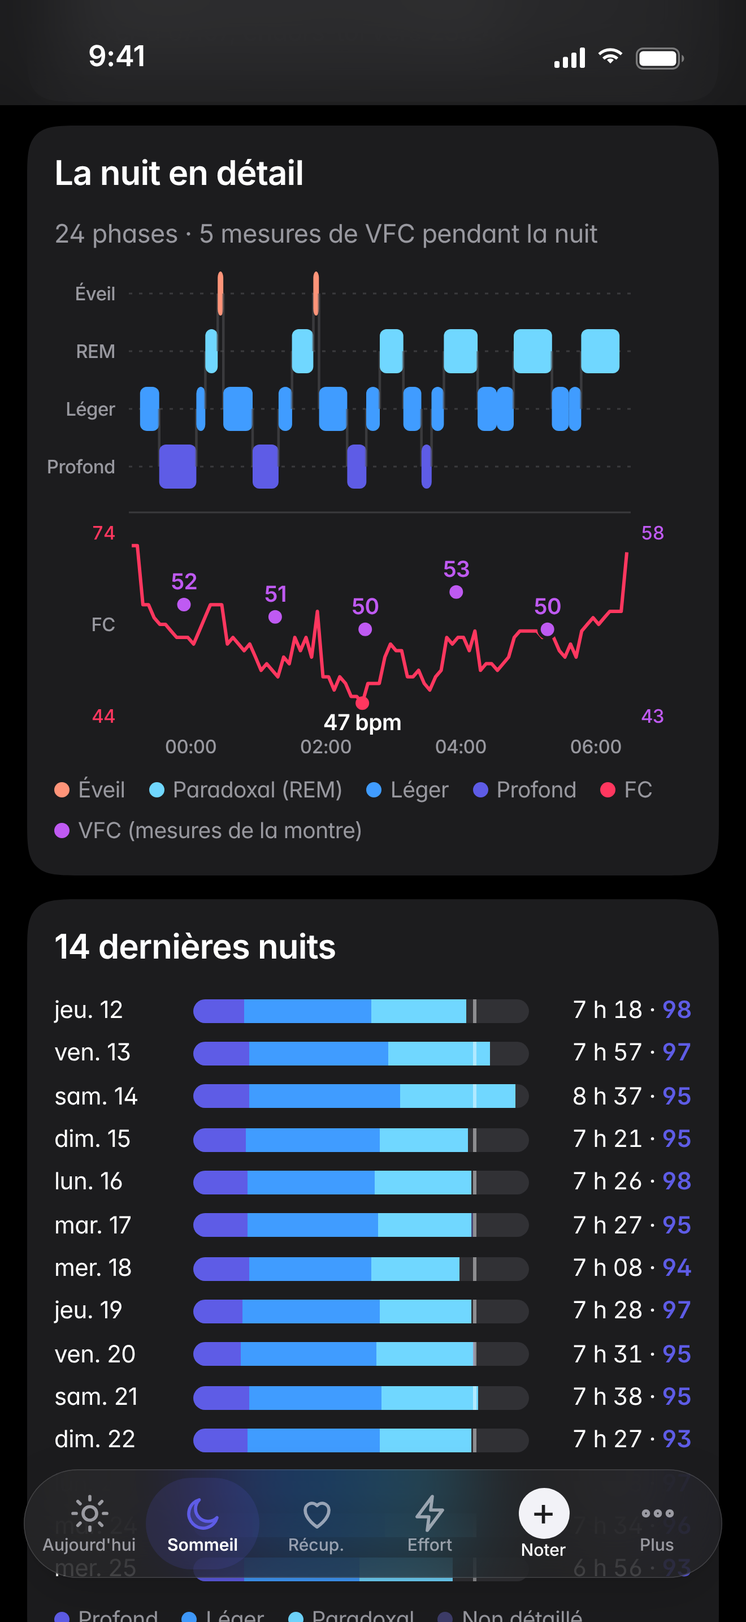
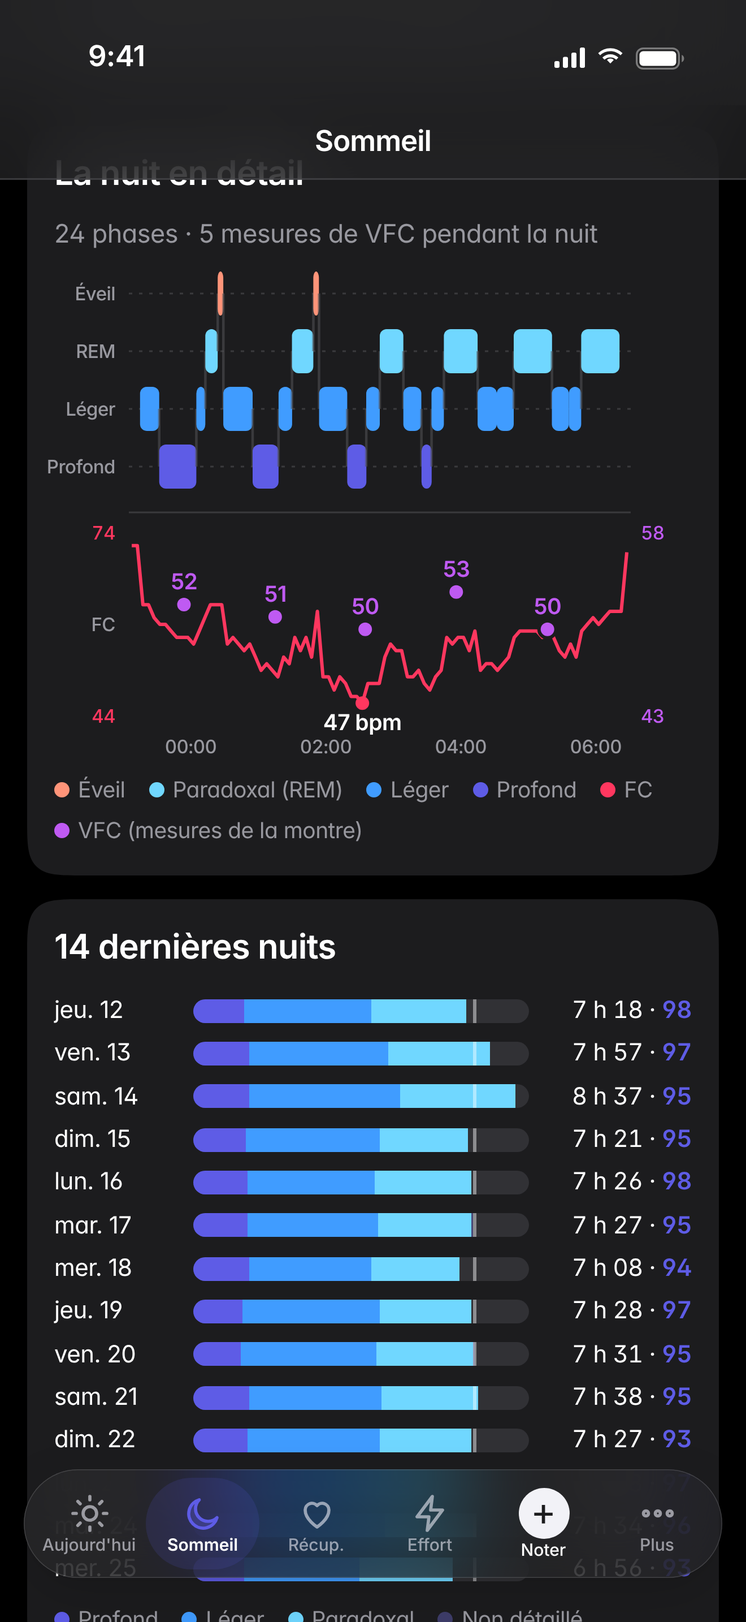
Grand titre qui se replie, titres Nutrition et Tendances, check-in en feuille, haptique
- téléphone : en défilant, le grand titre se replie en barre de titre compacte floutée (comme iOS)
- Nutrition et Tendances : grand titre et retour « ‹ Plus » sur téléphone
- check-in : carte résumé sur Aujourd'hui (mini-jauges, étiquettes, note) et saisie dans une
  feuille « Check-in du jour » ; Noter → Check-in l'ouvre directement
- retours haptiques dans l'appli iOS (changement d'onglet, choix, ajout d'eau, enregistrement)
  avec le module Capacitor Haptics
- captures App Store régénérées

Claude-Session: https://claude.ai/code/session_015H5AcnZF4Qe2vCaE56TQbC

Changed region(s): [[0.0, 0.0621, 1.0, 0.1241]]

diff --git a/src/main.js b/src/main.js
@@ -7,6 +7,8 @@ import {BASE_EX,SPORTS,MEALS,WT,MG,SCALES,MEAS,ZC,ZN,IC,DEF} from './constants.j
 import {readHealth} from './health-import.js';
 import {demoHealthXML,demoManual,DEMO_PROFILE} from './demo.js';
 import {hasHealthKit,authorizeHealth,readHealthKit,useHealthProvider} from './healthkit.js';
+import {Capacitor} from '@capacitor/core';
+import {Haptics,ImpactStyle,NotificationType} from '@capacitor/haptics';
 
 const S={set:clone(DEF),sessions:[],days:{},med:[],cur:null,health:{upd:'',d:{}},detail:{d:{}},day:today()};
 let mode='load',resumed=false,histN=15,sv,tt,startMode='mu',medFlt='Tout',psub='',sleepTrend='sl',sleepPer=30;
@@ -274,11 +276,15 @@ function actsHTML(d,T){T=T||dayTrain(d);const L=[];
  for(const s of T.sp){const w=T.att.find(x=>(WT[x.ty]||'')===s.type);L.push(`<div class="act" style="--c:var(--eff)"><div class="ic"><svg viewBox="0 0 24 24">${IC.run}</svg></div><div><div class="t">${esc(s.type)}</div><div class="m">${esc(s.min)} min${s.km?' · '+fx(s.km)+' km':''}${s.rpe?' · ressenti '+esc(s.rpe)+'/10':''}${w&&w.hr?' · '+w.hr+' bpm moy.':''}</div>${w?zbar(w.z)+zleg(w.z):''}</div><div class="e">${w&&w.tr?r0(100*(1-Math.exp(-w.tr/110))):''}<small>${w&&w.tr?'effort':''}</small></div></div>`)}
  for(const w of T.ap)L.push(`<div class="act" style="--c:${isStr(w)?'var(--trn)':'var(--eff)'}"><div class="ic"><svg viewBox="0 0 24 24">${isStr(w)?IC.lift:IC.run}</svg></div><div><div class="t">${esc(WT[w.ty]||w.ty)} <span class="mute small">· montre${has(w.st)?' · '+hm(w.st):''}</span></div><div class="m">${esc(w.min)} min${w.km?' · '+fx(w.km)+' km':''}${w.kcal?' · '+esc(w.kcal)+' kcal':''}${w.hr?' · '+esc(w.hr)+' bpm moy.':''}${w.mx?' · max '+esc(w.mx):''}</div>${zbar(w.z)}${zleg(w.z)}</div><div class="e">${w.tr?r0(100*(1-Math.exp(-w.tr/110))):''}<small>${w.tr?'effort':''}</small></div></div>`);
  return L.join('')}
-function renderCheckin(){const d=S.day,j=J(d);
- $('#checkin').innerHTML=`<div class="ph"><h2>Comment tu te sens ?</h2><span class="mute small">${j.mood||j.energy||j.stress||j.sore?'Enregistré':'20 secondes'}</span></div>
- <div class="ci">${SCALES.map(([k,l,lo,hi])=>`<div class="sc"><span>${l}</span><div class="seg">${[1,2,3,4,5].map(v=>`<button data-act="jset" data-k="${k}" data-v="${v}" class="${j[k]===v?'on':''}" aria-label="${l} ${v} sur 5">${v}</button>`).join('')}</div><small><span>${lo}</span><span>${hi}</span></small></div>`).join('')}</div>
- <h3>Étiquettes</h3><div class="chips">${S.set.tags.map(t=>`<button class="chip ${(j.tags||[]).includes(t)?'on':''}" data-act="jtag" data-t="${esc(t)}">${esc(t)}</button>`).join('')}</div>
- <h3>Note</h3><textarea id="jnote" rows="2" placeholder="Douleur, ressenti, événement…">${esc(j.note||'')}</textarea>`}
+const SCC={mood:'var(--mind)',energy:'var(--nut)',stress:'var(--bad)',sore:'var(--eff)'};
+function renderCheckin(){const d=S.day,j=J(d),done=!!(j.mood||j.energy||j.stress||j.sore||(j.tags||[]).length||j.note);
+ $('#checkin').innerHTML=`<div class="ph"><h2>Comment tu te sens ?</h2>${done?'<span class="mute small">Enregistré</span>':''}</div>`+(done?
+  `<div class="cisum">${SCALES.filter(([k])=>j[k]).map(([k,l])=>`<div class="cis"><span>${l}</span><i style="--c:${SCC[k]}">${[1,2,3,4,5].map(v=>`<b class="${v<=j[k]?'on':''}"></b>`).join('')}</i><em>${j[k]}/5</em></div>`).join('')}</div>${(j.tags||[]).length?`<div class="chips cit">${j.tags.map(t=>`<span class="chip on">${esc(t)}</span>`).join('')}</div>`:''}${j.note?`<p class="cinote">${esc(j.note)}</p>`:''}<div class="row"><button type="button" class="btn small" data-act="ciopen">Modifier</button></div>`
+  :`<p class="mute" style="margin:0 0 14px">Humeur, énergie, stress et courbatures en 20 secondes : le carnet les croise ensuite avec ton sommeil et ta récupération.</p><button type="button" class="btn pri" data-act="ciopen">Faire mon check-in</button>`);
+ if(document.activeElement&&document.activeElement.id==='jnote')return;
+ $('#cibody').innerHTML=`<div class="panel"><div class="ci">${SCALES.map(([k,l,lo,hi])=>`<div class="sc"><span>${l}</span><div class="seg">${[1,2,3,4,5].map(v=>`<button data-act="jset" data-k="${k}" data-v="${v}" class="${j[k]===v?'on':''}" aria-label="${l} ${v} sur 5">${v}</button>`).join('')}</div><small><span>${lo}</span><span>${hi}</span></small></div>`).join('')}</div>
+ </div><h3 class="ms-sec">Étiquettes</h3><div class="panel"><div class="chips">${S.set.tags.map(t=>`<button class="chip ${(j.tags||[]).includes(t)?'on':''}" data-act="jtag" data-t="${esc(t)}">${esc(t)}</button>`).join('')}</div></div>
+ <h3 class="ms-sec">Note</h3><div class="panel"><textarea id="jnote" rows="3" placeholder="Douleur, ressenti, événement…">${esc(j.note||'')}</textarea></div>`}
 function setJ(p){const d=S.day,o=getDay(d);o.j={...(o.j||{}),...p};put.day(d)}
 
 /* ---------- sommeil ---------- */
@@ -375,7 +381,7 @@ function renderStart(){const seen=new Set(),tpl=[];
  <button class="btn pri">Enregistrer</button></form>`)+`</div>`;
  const f=$('#spf');if(f)f.addEventListener('submit',ev=>{ev.preventDefault();const m=num($('#spm').value);if(!(m>0))return $('#spm').focus();
   const o={id:nid(),kind:'sport',type:$('#spt').value,date:$('#spd').value||today(),min:Math.round(m),rpe:num($('#spr').value)||'',km:num($('#spk').value)||'',note:$('#spn').value.trim(),t:Date.now()};
-  upsert(o);put.sess(o);renderStart();closeSheet();renderEffort();toast(o.type+' enregistré')})
+  upsert(o);put.sess(o);renderStart();closeSheet();renderEffort();buzz('ok');toast(o.type+' enregistré')})
  if(msKind==='seance')msBar()}
 function exHTML(e,i){return `<article class="ex" data-i="${i}"><div class="exh"><input class="exn" data-f="n" value="${esc(e.n)}" list="exlist" placeholder="Nom de l'exercice" aria-label="Exercice ${i+1}"><button class="x" data-act="delEx" aria-label="Supprimer l'exercice">×</button></div>
  <p class="hint" id="h${i}"></p>
@@ -402,7 +408,7 @@ function finish(){const c=S.cur;clearTimeout(sv);
  if(!ex.length){toast('Rien à enregistrer : note au moins une série avec ses reps.');return}
  const el=Math.round((Date.now()-(c.t||Date.now()))/6e4),dur=c.dur||(c.date===today()&&el>=10&&el<=240?el:'');
  const o={id:c.id,name:(c.name||'').trim()||'Séance',date:c.date||today(),ex,t:c.t||Date.now(),dur,rpe:num(c.rpe)||''};
- upsert(o);put.sess(o);S.cur=null;stopTimer();renderEditor();closeSheet();renderSoft();
+ upsert(o);put.sess(o);S.cur=null;stopTimer();renderEditor();closeSheet();renderSoft();buzz('ok');
  const prs=ex.filter(e=>{const b=bestE1(e.n,o.id);return b&&Math.max(...e.sets.map(x=>e1(x.w,x.r)))>b}).map(e=>e.n);
  toast('Séance enregistrée'+(dur?` (${dur} min)`:'')+(prs.length?` · record sur ${prs.join(', ')}`:''))}
 function discard(){const c=S.cur;clearTimeout(sv);S.cur=null;stopTimer();S.sessions=S.sessions.filter(s=>s.id!==c.id);put.delSess(c.id);renderEditor();closeSheet();renderSoft();
@@ -549,11 +555,11 @@ function quick(q){$('#sheet').hidden=true;setTimeout(()=>document.documentElemen
  else if(q==='food'){S.day=today();openFood(mealNow())}
  else if(q==='bw'){S.day=today();go('nutrition',()=>{$('#bw').scrollIntoView({behavior:'smooth',block:'center'});$('#bw').focus({preventScroll:true})})}
  else if(q==='water'){const o=getDay(today());o.w=num(o.w)+250;put.day(today());renderView(cur());toast(`Eau : ${fx(o.w/1000)} L aujourd'hui`)}
- else if(q==='ci'){S.day=today();go('aujourdhui',()=>$('#checkin').scrollIntoView({behavior:'smooth',block:'start'}))}
+ else if(q==='ci'){S.day=today();renderCheckin();openSheet('checkin')}
  else if(q==='med'){psub='dossier';go('plus',()=>{renderPlus();$('#mti').focus({preventScroll:true})})}
  else if(q==='apple'){if(HKN&&S.health.src==='hk'){hkSync();return}psub='apple';go('plus',renderPlus)}}
 
-function renderPlus(){$('#hub').hidden=!!psub;$('#subbar').hidden=!psub;$('#subt').textContent=SUBT[psub]||'';$$('[data-sub]').forEach(x=>x.hidden=x.dataset.sub!==psub);
+function renderPlus(){setTimeout(syncNav,0);$('#hub').hidden=!!psub;$('#subbar').hidden=!psub;$('#subt').textContent=SUBT[psub]||'';$$('[data-sub]').forEach(x=>x.hidden=x.dataset.sub!==psub);
  const L=hLast();$('#hubapple').textContent=S.set.demo?"Données de démo pour l'instant":HKN?(S.health.src==='hk'?'Connecté · '+syncWhen():'Connecter Apple Santé'):L?`Données jusqu'au ${dShort(L)}${today()>addD(L,3)?' : pense à réimporter':''}`:'Importer tes données (pas encore fait)';
  if(psub==='dossier')renderMed();else if(psub)renderSettings()}
 function renderMed(){const t=today(),L=S.med.slice().sort((a,b)=>b.date.localeCompare(a.date)),types=['Tout','Rendez-vous','Vaccin','Analyse','Blessure','Note'];
@@ -595,7 +601,7 @@ function resumeOnce(){if(resumed)return;resumed=true;const o=S.sessions.filter(s
 const views=['aujourdhui','sommeil','recuperation','effort','nutrition','tendances','plus'];
 const cur=()=>{const h=location.hash.slice(1);return views.includes(h)?h:'aujourdhui'};
 function markMore(){if(!matchMedia('(max-width:800px)').matches)return;requestAnimationFrame(()=>$$('.view:not([hidden]) :is(.panel>p.mute.small,.mkr p):not(.open)').forEach(p=>p.classList.toggle('more',p.scrollHeight>p.clientHeight+2)))}
-function renderView(v){setTimeout(markMore,0);renderDayNav();$('#demobar').hidden=!S.set.demo;try{({aujourdhui:renderToday,sommeil:renderSleep,recuperation:renderRec,effort:renderEffort,nutrition:renderNutri,tendances:renderTrends,plus:renderPlus})[v]()}catch(e){console.error(e)}}
+function renderView(v){setTimeout(markMore,0);setTimeout(syncNav,0);renderDayNav();$('#demobar').hidden=!S.set.demo;try{({aujourdhui:renderToday,sommeil:renderSleep,recuperation:renderRec,effort:renderEffort,nutrition:renderNutri,tendances:renderTrends,plus:renderPlus})[v]()}catch(e){console.error(e)}}
 function renderSoft(){updateDatalist();
  if(!S.cur&&!$('#editor').contains(document.activeElement))renderStart();
  if(S.cur)S.cur.ex.forEach((e,i)=>updateHint(i));
@@ -615,10 +621,11 @@ document.addEventListener('click',ev=>{unlockAudio();if(matchMedia('(max-width:8
  switch(act){
  case'sheet':{const sh=$('#sheet');sh.hidden=!sh.hidden;setTimeout(()=>{document.documentElement.style.setProperty('--hh',$('.top').offsetHeight+'px')},0);return}
  case'qa':return quick(b.dataset.q);
- case'dpick':S.day=b.dataset.d;return renderView(cur());
+ case'dpick':buzz();S.day=b.dataset.d;return renderView(cur());
  case'msclose':return closeSheet();
+ case'ciopen':renderCheckin();return openSheet('checkin');
  case'metric':return openMetric(b.dataset.k);
- case'mper':metP=+b.dataset.n;return renderMetric();
+ case'mper':buzz();metP=+b.dataset.n;return renderMetric();
  case'msopen':if(!S.cur){startMode=b.dataset.m||'mu';renderStart()}return openSheet('seance');
  case'foodadd':return openFood(b.dataset.m);
  case'foodsave':return $('#ff').requestSubmit();
@@ -636,12 +643,12 @@ document.addEventListener('click',ev=>{unlockAudio();if(matchMedia('(max-width:8
  case'psub':psub=b.dataset.s;scrollTo(0,0);if(cur()!=='plus'){ev.preventDefault();location.hash='plus';return}return renderPlus();
  case'slt':sleepTrend=b.dataset.k;return renderSleep();
  case'slper':sleepPer=+b.dataset.n;return renderSleep();
- case'jset':{const k=b.dataset.k,v=+b.dataset.v;setJ({[k]:J(S.day)[k]===v?undefined:v});return renderCheckin()}
- case'jtag':{const t=b.dataset.t,tg=(J(S.day).tags||[]).slice(),x=tg.indexOf(t);if(x<0)tg.push(t);else tg.splice(x,1);setJ({tags:tg});return renderCheckin()}
- case'water':{const d=S.day,o=getDay(d);o.w=Math.max(0,num(o.w)+ +b.dataset.v);put.day(d);return renderView(cur())}
+ case'jset':buzz();{const k=b.dataset.k,v=+b.dataset.v;setJ({[k]:J(S.day)[k]===v?undefined:v});return renderCheckin()}
+ case'jtag':buzz();{const t=b.dataset.t,tg=(J(S.day).tags||[]).slice(),x=tg.indexOf(t);if(x<0)tg.push(t);else tg.splice(x,1);setJ({tags:tg});return renderCheckin()}
+ case'water':{buzz('light');const d=S.day,o=getDay(d);o.w=Math.max(0,num(o.w)+ +b.dataset.v);put.day(d);return renderView(cur())}
  case'sup':{const d=S.day,o=getDay(d),s=b.dataset.s,l=(o.sup||[]).slice(),x=l.indexOf(s);if(x<0)l.push(s);else l.splice(x,1);o.sup=l;put.day(d);return renderNutri()}
  case'copyY':{const d=S.day,y=dayIt(addD(d,-1));if(!y.length)return toast('Rien de noté la veille.');getDay(d).items.push(...clone(y));put.day(d);renderNutri();return toast(y.length+' aliments copiés depuis la veille')}
- case'smode':startMode=b.dataset.m;return renderStart();
+ case'smode':buzz();startMode=b.dataset.m;return renderStart();
  case'start':return startSession();
  case'tpl':return startSession(b.dataset.id);
  case'tstart':return startTimer();
@@ -670,7 +677,7 @@ document.addEventListener('click',ev=>{unlockAudio();if(matchMedia('(max-width:8
 document.addEventListener('change',ev=>{if(ev.target.id==='jnote')setJ({note:ev.target.value.trim()})});
 $('#ff').addEventListener('submit',ev=>{ev.preventDefault();const n=$('#fn').value.trim(),p=num($('#fp').value),g=num($('#fg').value),l=num($('#fl2').value),k=num($('#fk').value);if(!n&&!p&&!k&&!g&&!l)return $('#fn').focus();
  const f={n:n||'Aliment',p,g,l,k:k||Math.round(p*4+g*4+l*9)};addFood(f);if($('#fsave').checked&&!S.set.foods.some(x=>norm(x.n)===norm(f.n))){S.set.foods.push(f);put.set()}
- const m=$('#fm').value;$('#ff').reset();$('#fm').value=m;renderNutri();if(msKind==='food'){closeSheet();toast(f.n+' ajouté · '+m)}else $('#fn').focus()});
+ const m=$('#fm').value;$('#ff').reset();$('#fm').value=m;renderNutri();buzz('ok');if(msKind==='food'){closeSheet();toast(f.n+' ajouté · '+m)}else $('#fn').focus()});
 $('#mf').addEventListener('submit',ev=>{ev.preventDefault();const d=$('#mdate').value||today(),m={};for(const [k] of MEAS){const v=num($('#m-'+k).value);if(v>0)m[k]=v}if(!Object.keys(m).length)return $('#m-taille').focus();getDay(d).m=m;put.day(d);$('#mf').reset();$('#mdate').value=today();renderBody();toast('Mensurations enregistrées')});
 $('#medf').addEventListener('submit',ev=>{ev.preventDefault();const o={id:nid(),type:$('#mt').value,date:$('#md').value||today(),title:$('#mti').value.trim(),who:$('#mw').value.trim(),next:$('#mn').value,note:$('#mno').value.trim()};if(!o.title)return $('#mti').focus();S.med.push(o);put.med(o);$('#medf').reset();$('#md').value=today();renderMed();toast('Ajouté au dossier')});
 $('#supf').addEventListener('submit',ev=>{ev.preventDefault();const v=$('#supn').value.trim();if(v&&!S.set.sups.includes(v)){S.set.sups.push(v);put.set()}$('#supn').value='';renderSettings()});
@@ -696,7 +703,7 @@ $('#hfile').addEventListener('change',async ev=>{const f=ev.target.files[0];ev.t
   msg.dataset.keep='1';msg.textContent=`Analyse terminée : ${n} jours, ${ns} nuits (dont ${nv} avec VFC nocturne, ${nrm} recalculées en RMSSD) et ${w} entraînements. ${R.chk?` Contrôle de lecture des battements : le SDNN recalculé vaut ${Math.round(R.chk.med*100)} % de la valeur Apple (sur ${R.chk.n} mesures).`:''} FC max. déduite : ${R.hmax} bpm.`}
  catch(e){console.error(e);msg.textContent="Impossible de lire ce fichier. Choisis le export.zip d'Apple Santé, ou le fichier .xml qu'il contient (pas celui qui contient « cda »)."}
  finally{bar.hidden=true;delete msg.dataset.busy;renderSoft()}});
-addEventListener('hashchange',()=>{$('#sheet').hidden=true;route();scrollTo(0,0)});
+addEventListener('hashchange',()=>{$('#sheet').hidden=true;buzz();route();scrollTo(0,0)});
 document.addEventListener('keydown',e=>{if(e.metaKey||e.ctrlKey||e.altKey)return;const t=e.target;if(t.closest&&t.closest('input,textarea,select,[contenteditable]'))return;
  const tabs=['aujourdhui','sommeil','recuperation','effort','nutrition','tendances','plus'];
  if(e.key==='Escape'){$('#sheet').hidden=true;closeSheet();return}
@@ -772,6 +779,7 @@ const mealNow=()=>{const hr=new Date().getHours();return hr<11?'Petit-déjeuner'
 function msBar(){const t=$('#mstitle'),l=$('#msl'),r=$('#msr');
  if(msKind==='seance'){t.textContent=S.cur?'Séance en cours':'Nouvelle séance';l.textContent=S.cur?'Fermer':'Annuler';r.innerHTML=S.cur?'<button type="button" class="ms-btn ms-done" data-act="finish">Terminer</button>':''}
  else if(msKind==='food'){t.textContent=foodMeal;l.textContent='Annuler';r.innerHTML='<button type="button" class="ms-btn ms-done" data-act="foodsave">Ajouter</button>'}
+ else if(msKind==='checkin'){t.textContent=S.day===today()?"Check-in du jour":'Check-in du '+dShort(S.day);l.textContent='';r.innerHTML='<button type="button" class="ms-btn ms-done" data-act="msclose">OK</button>'}
  else if(msKind==='metric'){t.textContent=(MET[metK]||{}).t||'';l.textContent='';r.innerHTML='<button type="button" class="ms-btn ms-done" data-act="msclose">OK</button>'}
  l.style.visibility=l.textContent?'':'hidden'}
 function openSheet(k){msKind=k;const m=$('#msheet');$$('#msheet .ms-body').forEach(b=>b.hidden=b.dataset.k!==k);msBar();m.hidden=false;document.documentElement.classList.add('ms-open');m.querySelector('.ms-body:not([hidden])').scrollTop=0}
@@ -821,6 +829,18 @@ function renderMetric(){const m=MET[metK];if(!m)return;const end=S.day,from=addD
   <h3 class="ms-sec">À propos</h3><div class="panel mabout">${note?`<p><b>${note}</b></p>`:''}<p>${m.about}</p><p class="mute small">Repères tirés des recommandations et de la recherche ; ils ne remplacent pas un avis médical.</p></div>`;
  setFig('#mfig',{series:[{name:m.t,pts,col:m.col,bars:!!m.bars,dots:!m.bars&&metP<=30,r:3,w:2,last:!m.bars}],unit:m.u,zero:!!m.bars,hline:goal||null,band:b?[b.m-b.s,b.m+b.s]:null,fmt:m.fmt,empty:'Pas de mesure sur cette période'});
  if(msKind==='metric')msBar()}
+
+/* ---------- retours haptiques (appli iOS uniquement) ---------- */
+function buzz(k='sel'){if(!Capacitor.isNativePlatform())return;try{
+ if(k==='ok')Haptics.notification({type:NotificationType.Success});
+ else if(k==='warn')Haptics.notification({type:NotificationType.Warning});
+ else if(k==='light')Haptics.impact({style:ImpactStyle.Light});
+ else Haptics.selectionChanged()}catch(e){}}
+
+/* ---------- barre de titre compacte : le grand titre se replie en défilant (comme iOS) ---------- */
+function navTitle(){const v=cur();return['aujourdhui','sommeil','recuperation','effort'].includes(v)?$('#dtitle').textContent:v==='nutrition'?'Nutrition':v==='tendances'?'Tendances':psub?(SUBT[psub]||'Plus'):'Plus'}
+function syncNav(){const t=navTitle();if($('#navct').textContent!==t)$('#navct').textContent=t}
+addEventListener('scroll',()=>{document.documentElement.classList.toggle('scrolled',scrollY>64)},{passive:true});
 
 /* ---------- premier lancement ---------- */
 const needOnb=()=>!S.set.onb&&!hKeys().length&&!S.sessions.length&&!Object.keys(S.days).length&&!S.med.length;

diff --git a/index.html b/index.html
@@ -31,6 +31,7 @@
 <div id="sheet" hidden><div class="sh" role="dialog" aria-label="Noter"><h3>Noter</h3><button type="button" class="x shx" data-act="qa" data-q="close" aria-label="Fermer">×</button>
 <button class="qa" data-act="qa" data-q="mu" style="--c:var(--trn)"><i><svg viewBox="0 0 24 24"><path d="M3 10v4M6 8v8M18 8v8M21 10v4M6 12h12"/></svg></i>Séance de muscu</button><button class="qa" data-act="qa" data-q="sp" style="--c:var(--eff)"><i><svg viewBox="0 0 24 24"><path d="M13 2 4 14h7l-1 8 9-12h-7z"/></svg></i>Autre sport</button><button class="qa" data-act="qa" data-q="food" style="--c:var(--nut)"><i><svg viewBox="0 0 24 24"><path d="M4 11h16a8 8 0 0 1-16 0zM9 7c0-2 1.5-3 3-3s3 1 3 3"/></svg></i>Repas</button><button class="qa" data-act="qa" data-q="water" style="--c:var(--wat)"><i><svg viewBox="0 0 24 24"><path d="M12 3s6 6.5 6 11a6 6 0 0 1-12 0c0-4.5 6-11 6-11z"/></svg></i>Eau +25 cl</button><button class="qa" data-act="qa" data-q="bw" style="--c:var(--bod)"><i><svg viewBox="0 0 24 24"><rect x="4" y="4" width="16" height="16" rx="4"/><path d="M9 9h6"/></svg></i>Poids du matin</button><button class="qa" data-act="qa" data-q="ci" style="--c:var(--mind)"><i><svg viewBox="0 0 24 24"><circle cx="12" cy="12" r="9"/><path d="M8.5 14s1.3 2 3.5 2 3.5-2 3.5-2M9 10h.01M15 10h.01"/></svg></i>Check-in</button><button class="qa" data-act="qa" data-q="med" style="--c:var(--hrt)"><i><svg viewBox="0 0 24 24"><rect x="4" y="5" width="16" height="15" rx="3"/><path d="M8 3v4M16 3v4M4 10h16"/></svg></i>Rendez-vous</button><button class="qa" data-act="qa" data-q="apple" style="--c:var(--rec)"><i><svg viewBox="0 0 24 24"><path d="M12 3v12M7 10l5 5 5-5M5 21h14"/></svg></i>Apple Santé</button>
 </div></div>
+<div class="navc" aria-hidden="true"><span id="navct"></span></div>
 <div class="wrap pop"><div id="timer" hidden><b id="tval">0:00</b><span class="small" id="tlab">Repos</span><button type="button" data-act="t30">+30 s</button><button type="button" data-act="tstop">Stop</button></div><div id="toast" role="status" aria-live="polite"></div></div>
 <div class="kbd dskonly"><b>←</b><b>→</b> changer de jour<br><b>1</b>–<b>7</b> onglets · <b>N</b> noter<br><b>Échap</b> fermer</div>
 </header>
@@ -88,6 +89,7 @@
 </section>
 
 <section id="v-nutrition" class="view" hidden>
+ <div class="vhead g12"><button type="button" class="btn small vback" data-go="plus">‹ Plus</button><h2 class="ltitle">Nutrition</h2></div>
  <div class="panel g7">
   <div class="grid2"><label>Jour<input id="nday" type="date"></label><label>Poids du matin (kg)<input id="bw" inputmode="decimal" placeholder="ex. 74,2"></label></div>
   <div class="meters" id="meters"></div><div id="macros"></div><p id="hday"></p>
@@ -100,6 +102,7 @@
 </section>
 
 <section id="v-tendances" class="view" hidden>
+ <div class="vhead g12"><button type="button" class="btn small vback" data-go="plus">‹ Plus</button><h2 class="ltitle">Tendances</h2></div>
  <div class="panel g12"><div class="ph"><h2>Bilan santé</h2><span class="mute small">30 derniers jours</span></div><div class="mkrs" id="mkrs"></div><p class="mute small">Repères issus des recommandations courantes (OMS pour l'activité, normes de VO2 max par âge et sexe, etc.), appliqués à tes données. Ce n'est pas un diagnostic : en cas de doute, parles-en à ton médecin.</p></div>
  <div class="panel g4"><h2>Rigueur du suivi</h2><div class="stats" id="rig"></div><p class="mute small">Sur les 14 derniers jours. Plus le suivi est complet, plus les scores et les analyses sont fiables.</p></div>
  <div class="panel g8"><div class="ph"><h2>Ta semaine</h2><span class="mute small" id="wkr"></span></div><div id="week" class="scroll"></div></div>
@@ -189,6 +192,7 @@
   <header class="ms-bar"><button type="button" class="ms-btn" id="msl" data-act="msclose">Annuler</button><h3 id="mstitle"></h3><span id="msr"></span></header>
   <div class="ms-body" data-k="seance"><div id="editor"></div></div>
   <div class="ms-body" data-k="metric" hidden><div id="mdet"></div></div>
+  <div class="ms-body" data-k="checkin" hidden><div id="cibody"></div></div>
   <div class="ms-body" data-k="food" hidden>
    <div class="panel">
     <form id="ff"><div class="addrow"><label>Aliment<input id="fn" autocomplete="off" placeholder="ex. Riz 200 g cuit"></label><label>Protéines (g)<input id="fp" inputmode="decimal" placeholder="0"></label><label>Glucides (g)<input id="fg" inputmode="decimal" placeholder="option"></label><label>Lipides (g)<input id="fl2" inputmode="decimal" placeholder="option"></label><label>Calories<input id="fk" inputmode="numeric" placeholder="auto"></label><label class="fmeal">Repas<select id="fm"></select></label></div>

diff --git a/src/styles.css b/src/styles.css
@@ -668,3 +668,32 @@ label.btn.filebtn:not(.pri){color:var(--ink)}
  :root.ms-open #timer{top:auto;bottom:calc(var(--sab) + 14px)}
  :root.ms-open #toast{top:auto;bottom:calc(var(--sab) + 74px)}
 }
+
+/* ---------- grands titres des écrans Nutrition et Tendances ---------- */
+.vhead{display:flex;flex-direction:column;align-items:flex-start;gap:2px;margin:6px 0 6px}
+.ltitle{margin:0;font:700 34px/1.12 var(--font);letter-spacing:.006em}
+.vback{background:var(--field);color:var(--ink);padding:5px 14px 5px 10px;min-height:32px;font-size:15px;font-weight:500;margin-bottom:6px}
+@media(min-width:801px){.vback{display:none}}
+/* ---------- barre de titre compacte (téléphone) ---------- */
+.navc{display:none}
+@media(max-width:800px){
+ .navc{display:flex;position:fixed;top:0;left:0;right:0;height:calc(var(--sat) + 44px);padding-top:var(--sat);align-items:center;justify-content:center;z-index:31;
+  background:var(--glass);-webkit-backdrop-filter:blur(20px) saturate(1.8);backdrop-filter:blur(20px) saturate(1.8);border-bottom:.5px solid var(--line);
+  opacity:0;transform:translateY(-6px);pointer-events:none;transition:opacity .2s,transform .2s}
+ .navc span{font:600 17px var(--font);letter-spacing:-.02em;max-width:70%;overflow:hidden;text-overflow:ellipsis;white-space:nowrap}
+ .navc span::first-letter{text-transform:uppercase}
+ :root.scrolled .navc{opacity:1;transform:none}
+ :root.ms-open .navc{opacity:0}
+}
+/* ---------- check-in : résumé ---------- */
+.cisum{display:grid;gap:2px;margin:2px 0 8px}
+.cis{display:grid;grid-template-columns:minmax(0,1fr) auto 34px;gap:12px;align-items:center;min-height:40px;border-top:.5px solid var(--line);font-size:16px}
+.cis:first-child{border-top:0}
+.cis i{display:flex;gap:5px}
+.cis i b{width:16px;height:6px;border-radius:3px;background:color-mix(in srgb,var(--c) 18%,transparent)}
+.cis i b.on{background:var(--c)}
+.cis em{font:600 15px var(--round);font-style:normal;text-align:right;color:var(--mute)}
+.cit{margin:10px 0 4px}.cit .chip{cursor:default;min-height:30px;padding:4px 12px;font-size:14px}
+.cinote{margin:8px 0 0;font-size:15px;color:var(--mute);font-style:italic}
+#cibody .ci{gap:18px}
+#cibody textarea{background:transparent;padding:0;min-height:72px}

diff --git a/ios/App/CapApp-SPM/Package.swift b/ios/App/CapApp-SPM/Package.swift
@@ -11,14 +11,16 @@ let package = Package(
             targets: ["CapApp-SPM"])
     ],
     dependencies: [
-        .package(url: "https://github.com/ionic-team/capacitor-swift-pm.git", exact: "8.6.2")
+        .package(url: "https://github.com/ionic-team/capacitor-swift-pm.git", exact: "8.6.2"),
+        .package(name: "CapacitorHaptics", path: "../../../node_modules/@capacitor/haptics")
     ],
     targets: [
         .target(
             name: "CapApp-SPM",
             dependencies: [
                 .product(name: "Capacitor", package: "capacitor-swift-pm"),
-                .product(name: "Cordova", package: "capacitor-swift-pm")
+                .product(name: "Cordova", package: "capacitor-swift-pm"),
+                .product(name: "CapacitorHaptics", package: "CapacitorHaptics")
             ]
         )
     ]
